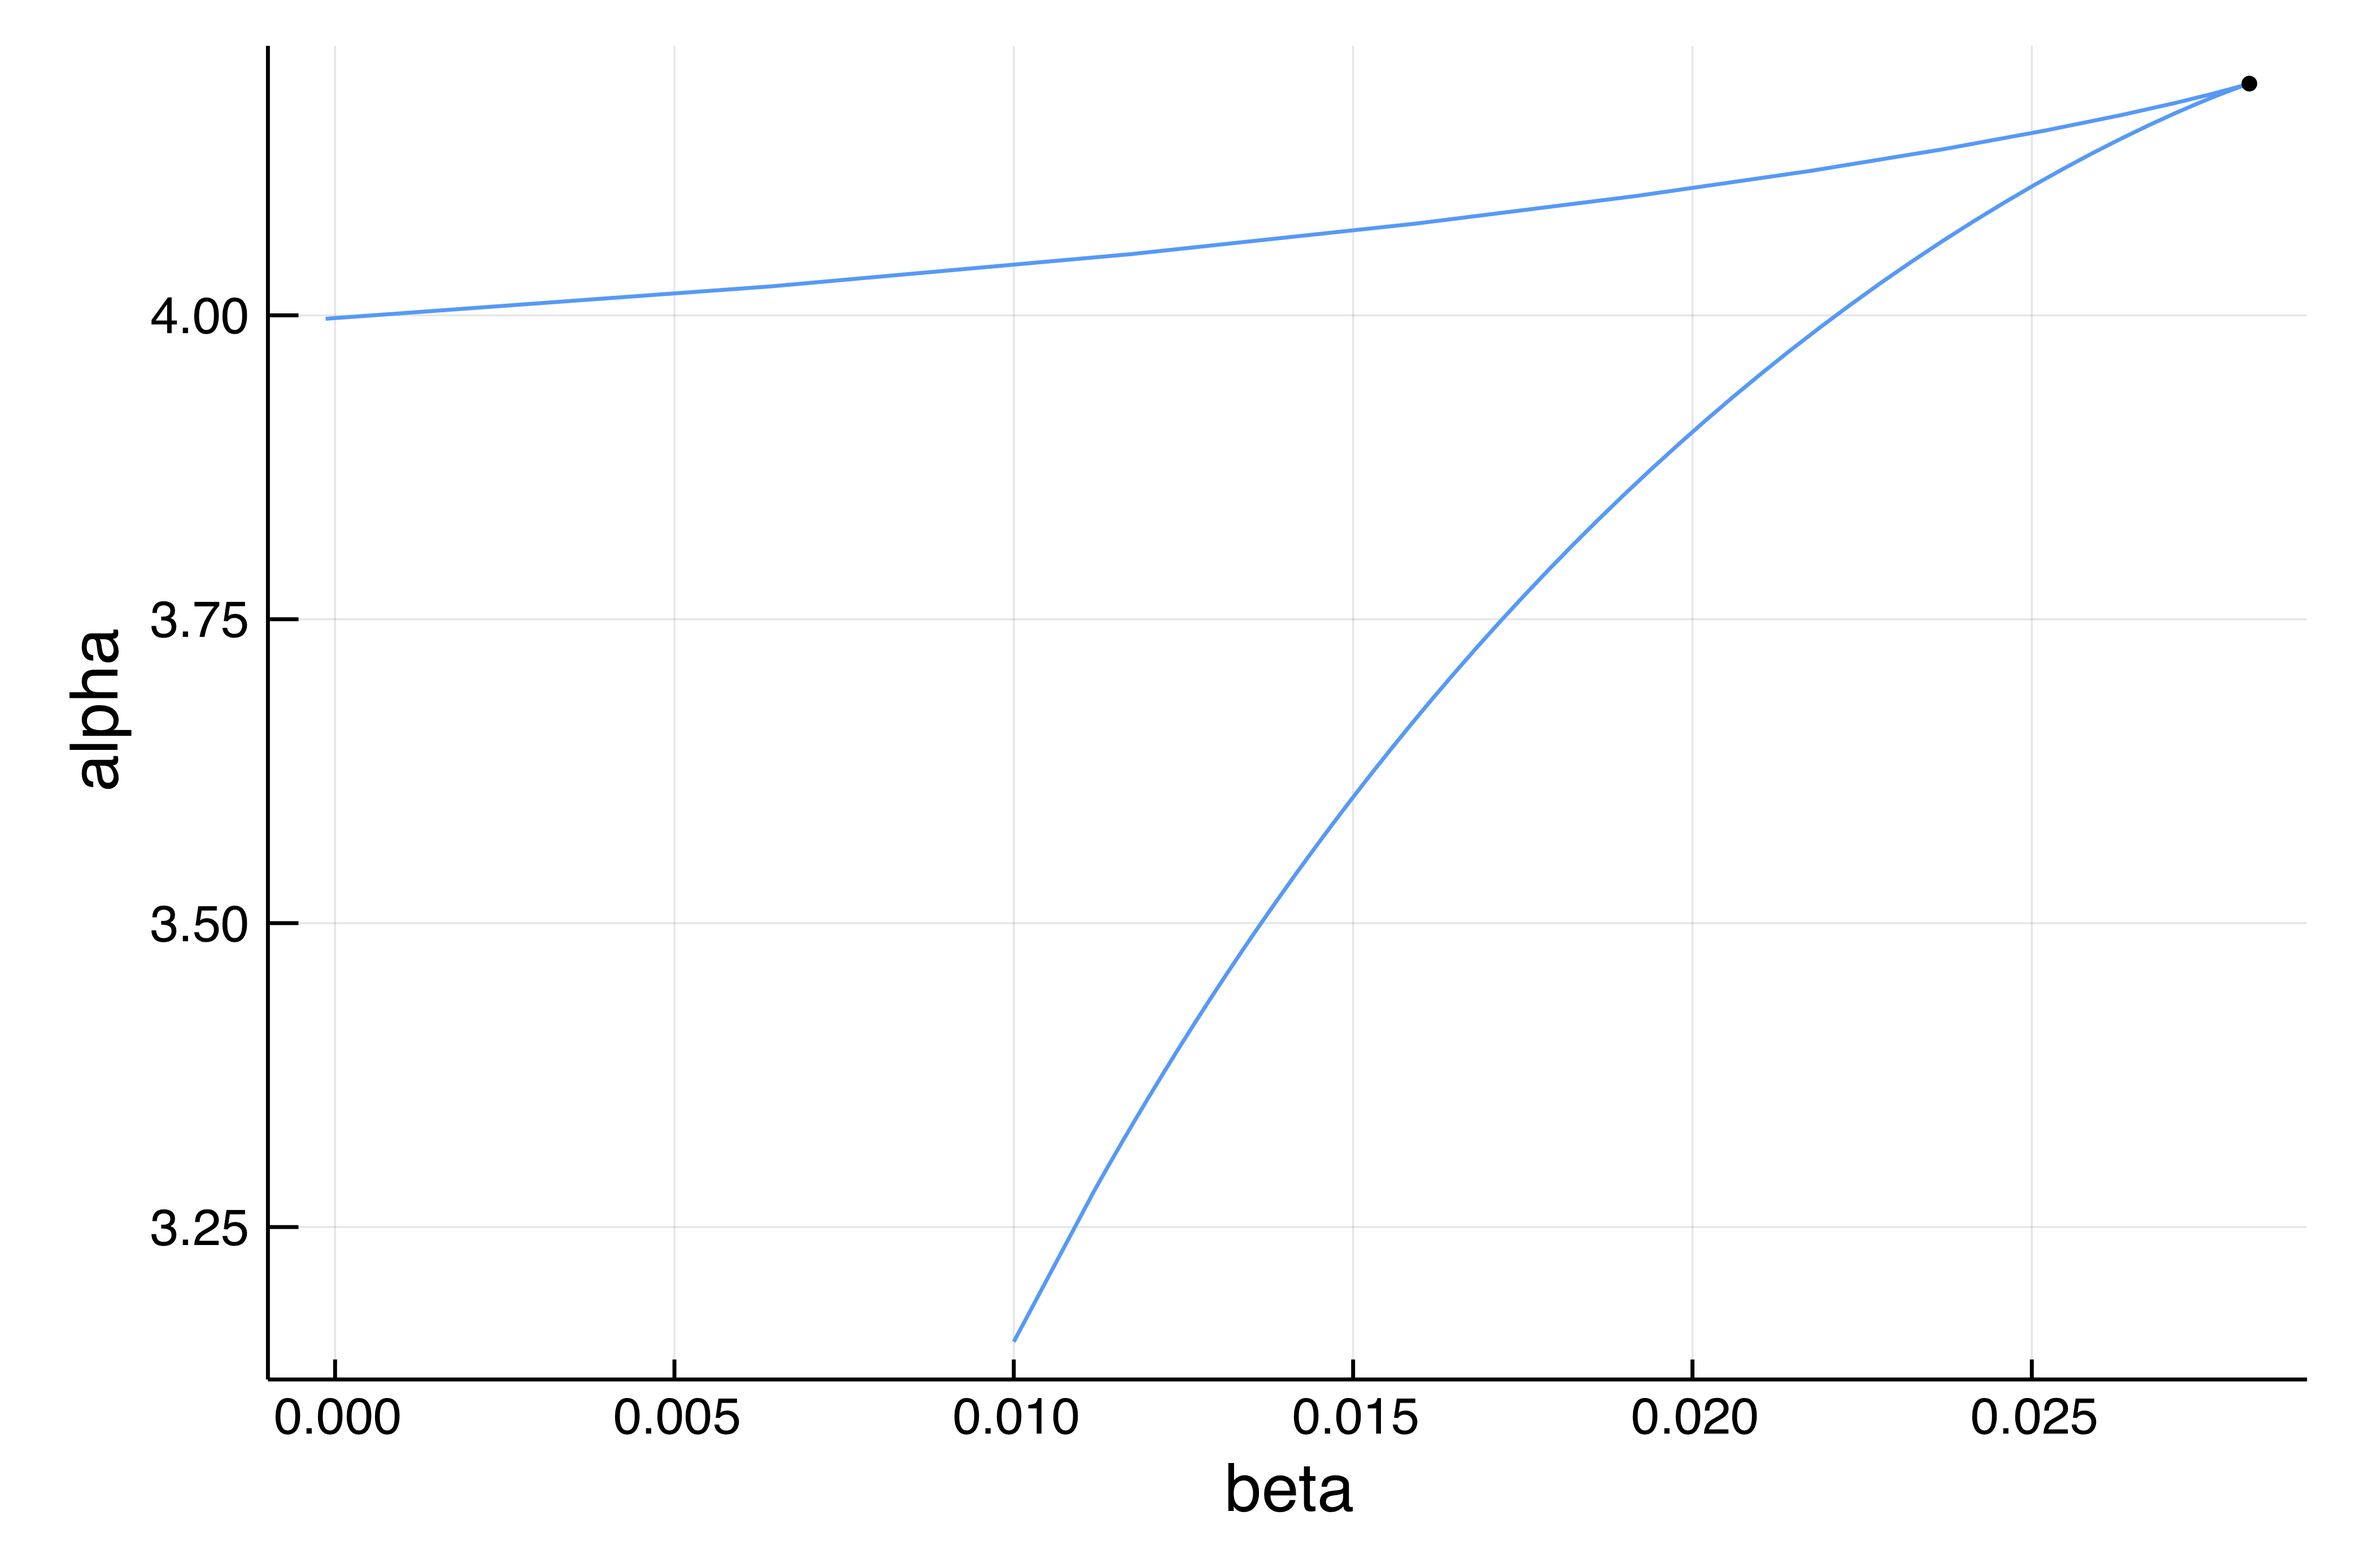
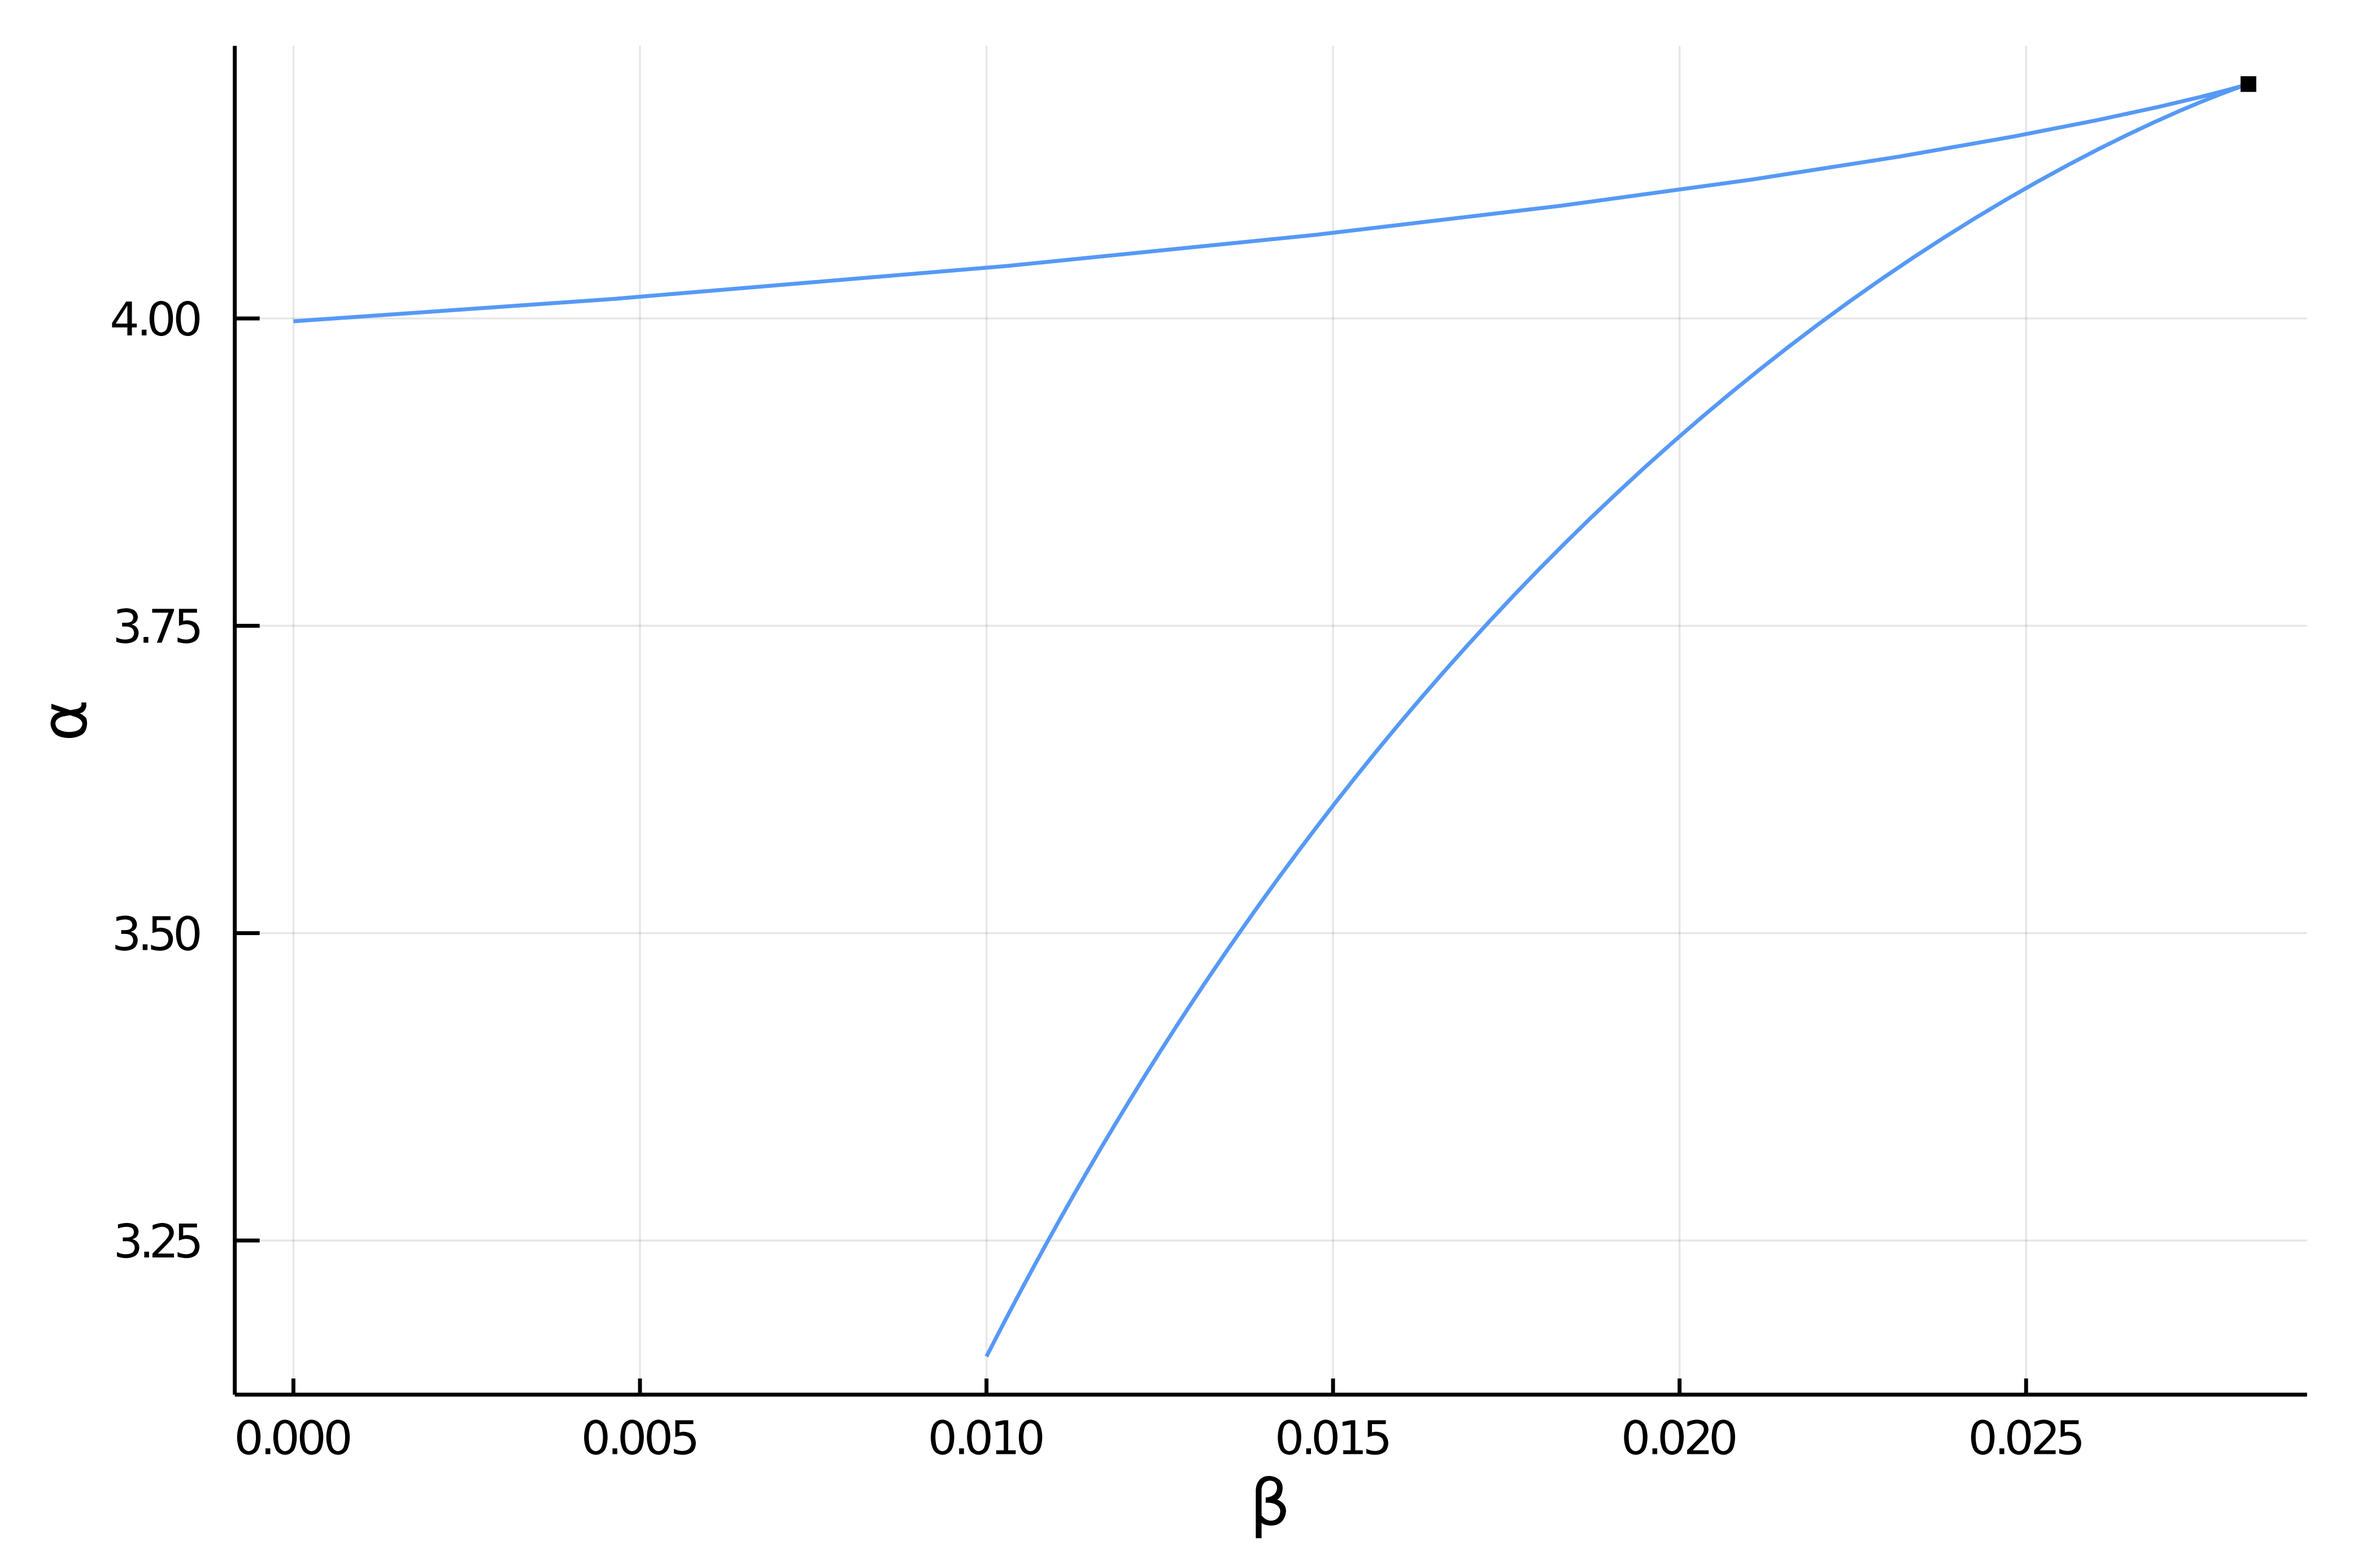
improve docs
improve docs

diff --git a/README.md b/README.md
@@ -55,7 +55,9 @@ The package is located [here](https://github.com/rveltz/BifurcationKit.jl).
 | ![](https://rveltz.github.io/BifurcationKit.jl/dev/sh2dbranches.png)   |  ![](https://rveltz.github.io/BifurcationKit.jl/dev/bru-po-cont-3br.png) | 
 | [Snaking in 2D Swift Hohenberg](https://rveltz.github.io/BifurcationKit.jl/dev/tutorials2) |  [Periodic orbits in Brusselator](https://rveltz.github.io/BifurcationKit.jl/dev/tutorials3/) |  
 | ![](https://rveltz.github.io/BifurcationKit.jl/dev/br_pd3.png) |![](https://rveltz.github.io/BifurcationKit.jl/dev/cgl-sh-br.png) | 
-| [Period doubling BVAM Model](https://rveltz.github.io/BifurcationKit.jl/dev/tutorialsPD)  |  [Ginzburg-Landau 2d](https://rveltz.github.io/BifurcationKit.jl/dev/tutorialsCGL/)  |  
+| [Period doubling BVAM Model](https://rveltz.github.io/BifurcationKit.jl/dev/tutorialsPD)  |  [Ginzburg-Landau 2d](https://rveltz.github.io/BifurcationKit.jl/dev/tutorialsCGL/)  |
+| ![](https://rveltz.github.io/BifurcationKit.jl/dev/carrier.png) | | 
+| [Deflated Continuation in Carrier problem](https://rveltz.github.io/BifurcationKit.jl/dev/tutorialCarrier/#Deflated-Continuation-in-the-Carrier-Problem-1)  |    |
 
 
 ## Main features

diff --git a/docs/src/tutorials1.md b/docs/src/tutorials1.md
@@ -79,12 +79,13 @@ We can perform numerical continuation w.r.t. the parameter $\alpha$. This time, 
 optcont = ContinuationPar(dsmin = 0.01, dsmax = 0.2, ds= 0.1, pMax = 4.1, newtonOptions = NewtonPar(tol = 1e-8))
 ```
 
-Next, we call the continuation routine as follows. 
+Next, we call the continuation routine as follows.
 
 ```julia
 br, = @time continuation(F_chan, out, par, (@lens _.α),
 		optcont; plot = true, verbosity = 0,
-		plotSolution = (x, p; kwargs...) -> (plot!(x;ylabel="solution",label="", kwargs...)))
+		# function to plot the solution
+		plotSolution = (x, p; k...) -> plot!(x; ylabel="solution", label="", k...))
 ```
 
 The parameter axis `lens = @lens _.α` can be used to extract the component of `par` corresponding to `α`. Internally, it is used as `get(par, lens)` which returns `3.3`.

diff --git a/docs/src/plotting.md b/docs/src/plotting.md
@@ -37,6 +37,9 @@ plot(br1)
 plot!(br2)
 ```
 
+!!! warn "Plot of bifurcation points"
+    The bifurcation points for which the bisection was successful are indicated with circles and with squares otherwise.
+
 ### Choosing Variables
 
 You can select which variables to plot using the keyword argument `vars`:
